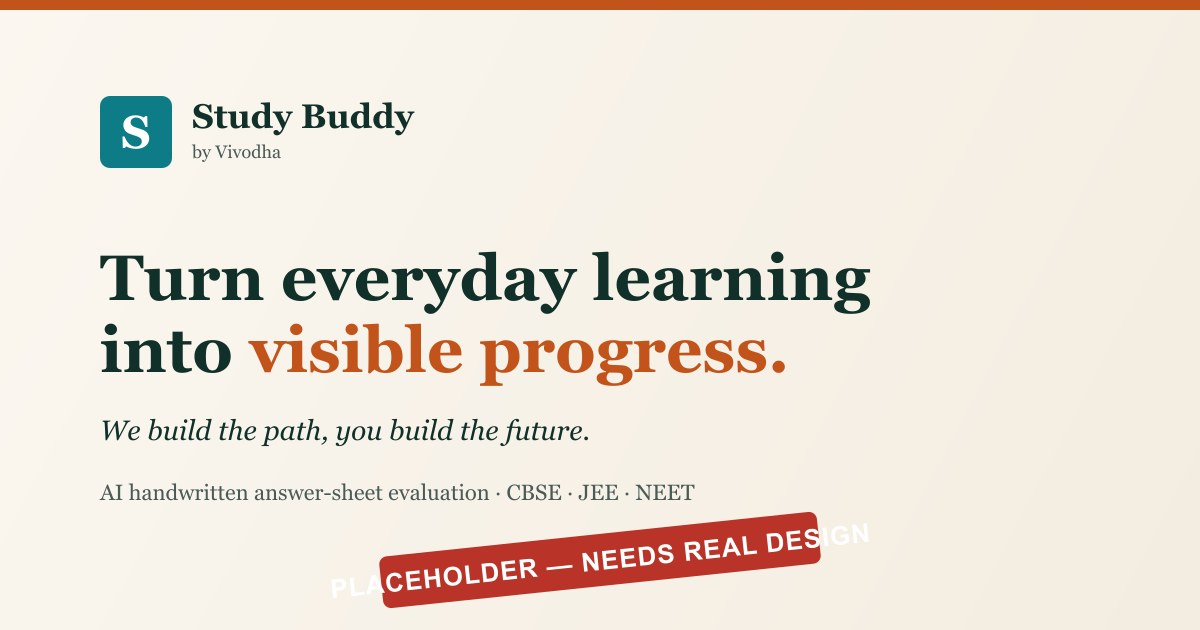
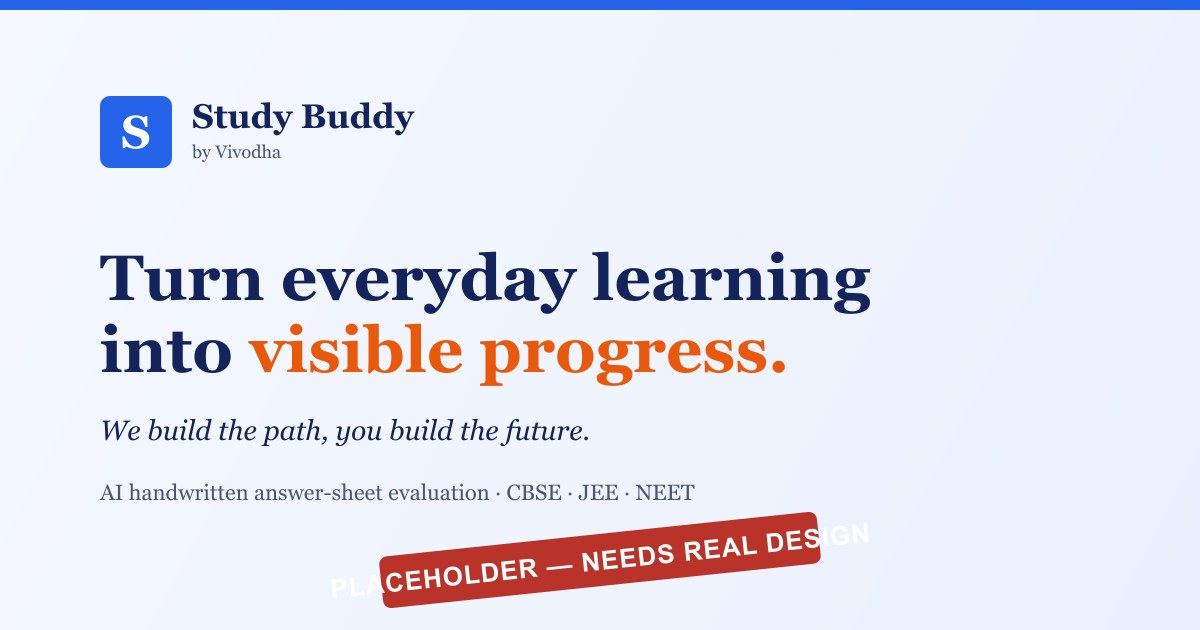
Recolour landing page to match the Study Buddy app (colour only)
Light blue-white page, navy ink and dark bands like the app sidebar,
royal-blue buttons and logo mark like the app's Sign In, orange/amber
highlights like "Score Higher", indigo as the support colour. Done by
remapping the design tokens in global.css plus a new --primary token
for buttons; no content, layout, animation or font changes (page heights
identical before/after at 390 and 1440). Favicon set and placeholder OG
image regenerated in the new palette. All text pairs pass WCAG AA;
Lighthouse unchanged at 95/100/100/100. DESIGN.md §3 updated.

diff --git a/src/styles/global.css b/src/styles/global.css
@@ -47,34 +47,40 @@
   --color-transparent: transparent;
   --color-current: currentColor;
 
-  --color-paper: #fbf7f0;
-  --color-paper-2: #f3ece0;
+  /* Study Buddy app palette (studybuddy.vivodha.com): blue-white page, navy ink and bands,
+     royal-blue buttons, orange/amber energy accent, indigo secondary. */
+  --color-paper: #f5f8ff;
+  --color-paper-2: #eaf0fd;
   --color-surface: #ffffff;
 
-  --color-ink: #12302a;
-  --color-ink-2: #4a5a55;
-  --color-ink-on-dark: #c9d6d1;
+  --color-ink: #13235b;
+  --color-ink-2: #4a5677;
+  --color-ink-on-dark: #c8d3f5;
 
-  --color-accent: #c2541b;
-  --color-accent-hover: #a84716;
-  --color-accent-ink: #9e4314;
-  --color-accent-on-dark: #f08a4b;
-  --color-accent-tint: #fbe6d6;
+  --color-primary: #2563eb;
+  --color-primary-hover: #1d4ed8;
 
-  --color-teal: #0e7c86;
-  --color-teal-ink: #0b6670;
-  --color-teal-tint: #e0f0ef;
+  --color-accent: #ea580c;
+  --color-accent-hover: #c2410c;
+  --color-accent-ink: #c2410c;
+  --color-accent-on-dark: #fbbf24;
+  --color-accent-tint: #ffedd5;
 
-  --color-ochre: #d9a21b;
+  /* Token names kept from the original theme so components don't change; "teal" now holds the indigo secondary. */
+  --color-teal: #4f46e5;
+  --color-teal-ink: #4338ca;
+  --color-teal-tint: #e0e7ff;
 
-  --color-line: #e4dccd;
-  --color-line-strong: #8c8273;
+  --color-ochre: #f59e0b;
+
+  --color-line: #dce3f3;
+  --color-line-strong: #7c88a6;
 
   --color-error: #b42318;
   --color-success: #1f7a4d;
   --color-warning: #8a5a00;
 
-  --color-focus: #0b6670;
+  --color-focus: #2563eb;
 
   --font-display: 'Fraunces', Georgia, 'Times New Roman', serif;
   --font-body: 'Source Sans 3', 'Segoe UI', Roboto, 'Noto Sans', sans-serif;
@@ -106,8 +112,8 @@
   --radius-lg: 20px;
   --radius-full: 999px;
 
-  --shadow-1: 0 1px 2px rgb(18 48 42 / 0.06), 0 1px 1px rgb(18 48 42 / 0.04);
-  --shadow-2: 0 12px 32px -12px rgb(18 48 42 / 0.18), 0 2px 6px rgb(18 48 42 / 0.06);
+  --shadow-1: 0 1px 2px rgb(19 35 91 / 0.06), 0 1px 1px rgb(19 35 91 / 0.04);
+  --shadow-2: 0 12px 32px -12px rgb(19 35 91 / 0.2), 0 2px 6px rgb(19 35 91 / 0.06);
 
   --ease-out: cubic-bezier(0.2, 0.7, 0.2, 1);
   --dur-fast: 150ms;

diff --git a/DESIGN.md b/DESIGN.md
@@ -50,38 +50,42 @@ These are the visual habits of the current app and posters 1–2. **They must no
 
 ## 3. Colour tokens
 
-A warm paper base with deep-green ink, one burnt-orange accent, and teal taken from the Vivodha logo as a quiet support colour.
+Matched to the Study Buddy app (studybuddy.vivodha.com): a light blue-white page, deep navy ink and dark bands like the app sidebar, royal-blue buttons like the app's Sign In, an orange/amber energy accent like "Score Higher" on the login page, and indigo as the quiet support colour. Token names were kept from the first theme so components didn't change (`teal` now holds indigo).
 
 ```css
 :root {
   /* Surfaces */
-  --paper:        #FBF7F0;  /* page background, warm off-white */
-  --paper-2:      #F3ECE0;  /* alternate section band */
+  --paper:        #F5F8FF;  /* page background, light blue-white */
+  --paper-2:      #EAF0FD;  /* alternate section band */
   --surface:      #FFFFFF;  /* cards, inputs, dashboard frame */
 
   /* Ink */
-  --ink:          #12302A;  /* headings, body, dark CTA band */
-  --ink-2:        #4A5A55;  /* secondary / muted text */
-  --ink-on-dark:  #C9D6D1;  /* body text on --ink bands */
+  --ink:          #13235B;  /* headings, body, navy dark bands */
+  --ink-2:        #4A5677;  /* secondary / muted text */
+  --ink-on-dark:  #C8D3F5;  /* body text on --ink bands */
 
-  /* Accent: burnt orange (decisions only) */
-  --accent:       #C2541B;  /* primary button fill, large highlight words, underline stroke */
-  --accent-hover: #A84716;  /* button hover/active */
-  --accent-ink:   #9E4314;  /* small orange text on paper (eyebrows, links) */
-  --accent-on-dark:#F08A4B; /* orange text/eyebrows on --ink bands */
-  --accent-tint:  #FBE6D6;  /* audience badge background, highlights */
+  /* Primary: royal blue (actions) */
+  --primary:       #2563EB; /* button fill, logo mark, focus ring */
+  --primary-hover: #1D4ED8; /* button hover */
 
-  /* Support: teal from logo (data and reassurance) */
-  --teal:         #0E7C86;  /* chart bars, icons, check marks */
-  --teal-ink:     #0B6670;  /* teal text */
-  --teal-tint:    #E0F0EF;  /* soft info backgrounds */
+  /* Accent: orange / amber (energy and emphasis, not buttons) */
+  --accent:       #EA580C;  /* large highlight words, underline stroke, eyebrow rules, markers */
+  --accent-hover: #C2410C;
+  --accent-ink:   #C2410C;  /* small orange text on paper (eyebrows, links), numbered markers */
+  --accent-on-dark:#FBBF24; /* amber eyebrows/script on --ink bands */
+  --accent-tint:  #FFEDD5;  /* audience badge background, highlights */
+
+  /* Support: indigo (data and reassurance). Token still named "teal". */
+  --teal:         #4F46E5;  /* chart bars, icons, check marks */
+  --teal-ink:     #4338CA;  /* indigo text/labels */
+  --teal-tint:    #E0E7FF;  /* soft info backgrounds */
 
   /* Chart-only third hue (dashboard mockup) */
-  --ochre:        #D9A21B;
+  --ochre:        #F59E0B;
 
   /* Lines */
-  --line:         #E4DCCD;  /* hairline dividers & card borders (decorative) */
-  --line-strong:  #8C8273;  /* input borders (meets 3:1 non-text) */
+  --line:         #DCE3F3;  /* hairline dividers & card borders (decorative) */
+  --line-strong:  #7C88A6;  /* input borders (meets 3:1 non-text) */
 
   /* Feedback (forms only) */
   --error:        #B42318;
@@ -89,39 +93,38 @@ A warm paper base with deep-green ink, one burnt-orange accent, and teal taken f
   --warning:      #8A5A00;
 
   /* Focus */
-  --focus:        #0B6670;  /* 2px ring + 2px offset in --paper */
+  --focus:        #2563EB;  /* 2px ring + 2px offset in --paper */
 }
 ```
 
-*Why green ink rather than black or navy:* it is softer than black, distinct from the navy used by every edtech competitor, and matches poster 3's footer band.
-*Why only one accent:* if orange only ever means "act here", the eye finds the CTA without effort.
-*Why teal is support only:* it ties the page back to the logo without competing with orange for attention.
+*Why blue and navy:* principals who sign up land in the Study Buddy app, so the page should already feel like the product they'll use. One brand, one first impression.
+*Why blue buttons and orange highlights:* blue says "act here" consistently with the app, and orange gives the headline and markers energy without competing with the buttons.
+*Why indigo is support only:* it carries data (bars, checks, icons) and stays quieter than both blue and orange.
 
 ### Contrast ratios (WCAG 2.1, computed)
 
 | Foreground | Background | Ratio | Use | AA |
 |---|---|---|---|---|
-| `--ink` #12302A | `--paper` #FBF7F0 | **13.27** | Body, headings | ✅ AAA |
-| `--ink` #12302A | `--surface` #FFFFFF | **14.17** | Card text | ✅ AAA |
-| `--ink-2` #4A5A55 | `--paper` | **6.82** | Muted text | ✅ |
-| `--ink-2` #4A5A55 | `--paper-2` #F3ECE0 | **6.20** | Muted text on bands | ✅ |
-| #FFFFFF | `--accent` #C2541B | **4.59** | Primary button label | ✅ |
-| #FFFFFF | `--accent-hover` #A84716 | **5.87** | Button hover | ✅ |
-| `--accent-ink` #9E4314 | `--paper` | **6.02** | Eyebrows, links | ✅ |
-| `--accent-ink` #9E4314 | `--paper-2` | **5.47** | Eyebrows on bands | ✅ |
-| `--accent` #C2541B | `--paper` | **4.30** | **Large display text only** (≥24px, or ≥18.66px bold) | ✅ large / ❌ small |
-| `--teal` #0E7C86 | `--paper` | **4.63** | Icons, teal text | ✅ |
-| `--teal-ink` #0B6670 | `--paper` | **6.25** | Teal links/labels | ✅ |
-| `--teal-ink` #0B6670 | `--teal-tint` #E0F0EF | **5.68** | Info notes | ✅ |
-| #FFFFFF | `--ink` #12302A | **14.17** | Headline on dark band | ✅ AAA |
-| `--ink-on-dark` #C9D6D1 | `--ink` | **9.46** | Body on dark band | ✅ AAA |
-| `--accent-on-dark` #F08A4B | `--ink` | **5.70** | Eyebrow on dark band | ✅ |
-| `--ink` | `--accent-tint` #FBE6D6 | **11.74** | Audience badge | ✅ AAA |
-| `--line-strong` #8C8273 | `--surface` | **3.78** | Input borders (non-text, needs 3:1) | ✅ |
+| `--ink` #13235B | `--paper` #F5F8FF | **13.92** | Body, headings | ✅ AAA |
+| `--ink` #13235B | `--surface` #FFFFFF | **14.80** | Card text | ✅ AAA |
+| `--ink-2` #4A5677 | `--paper` | **6.84** | Muted text | ✅ |
+| `--ink-2` #4A5677 | `--paper-2` #EAF0FD | **6.36** | Muted text on bands | ✅ |
+| #FFFFFF | `--primary` #2563EB | **5.17** | Button label | ✅ |
+| #FFFFFF | `--primary-hover` #1D4ED8 | **6.70** | Button hover | ✅ |
+| `--accent-ink` #C2410C | `--paper` | **4.87** | Eyebrows, links | ✅ |
+| `--accent-ink` #C2410C | `--paper-2` | **4.53** | Eyebrows on bands | ✅ |
+| `--accent` #EA580C | `--paper` | **3.35** | **Large display text only** (≥24px, or ≥18.66px bold) | ✅ large / ❌ small |
+| `--teal` #4F46E5 | `--paper` | **5.91** | Icons, indigo text | ✅ |
+| `--teal-ink` #4338CA | `--teal-tint` #E0E7FF | **6.41** | Info notes | ✅ |
+| #FFFFFF | `--ink` #13235B | **14.80** | Headline on navy band | ✅ AAA |
+| `--ink-on-dark` #C8D3F5 | `--ink` | **9.93** | Body on navy band | ✅ AAA |
+| `--accent-on-dark` #FBBF24 | `--ink` | **8.86** | Eyebrow/script on navy band | ✅ AAA |
+| `--ink` | `--accent-tint` #FFEDD5 | **12.91** | Audience badge | ✅ AAA |
+| `--line-strong` #7C88A6 | `--surface` | **3.54** | Input borders (non-text, needs 3:1) | ✅ |
 | `--error` #B42318 | `--surface` | **6.57** | Error message | ✅ |
 | `--success` #1F7A4D | `--surface` | **5.32** | Success message | ✅ |
 
-**Rule:** `--accent` is never used for text under 24px. Use `--accent-ink` instead. `--line` (1.28:1) is decorative only and never the sole boundary of an interactive control.
+**Rule:** `--accent` is never used for text under 24px. Use `--accent-ink` instead. White labels on small orange fills (Class 11 node, numbered markers) use `--accent-ink`. `--line` is decorative only and never the sole boundary of an interactive control.
 
 ---
 
@@ -227,13 +230,13 @@ Each component lists its anatomy, states, mobile behaviour, and the thing not to
 
 | Variant | Style | Use |
 |---|---|---|
-| **Primary** | `--accent` fill, white Source Sans 3 600 16px, `--r-sm`, padding 14×22, trailing arrow icon (Lucide `arrow-right`, 18px) | One per viewport: "Book a free institute demo" |
+| **Primary** | `--primary` fill, white Source Sans 3 600 16px, `--r-sm`, padding 14×22, trailing arrow icon (Lucide `arrow-right`, 18px) | One per viewport: "Book a free institute demo" |
 | **Secondary** | Transparent, 1.5px `--ink` border, `--ink` text | "Explore the platform" |
 | **Text link** | `--accent-ink`, underline offset 3px, thickness 1px → 2px on hover | Inline links |
 | **On dark** | Primary unchanged; secondary uses a white border and white text | CTA band |
 
 - **Height:** 48px minimum on mobile and 44px on desktop. Full-width on mobile when stacked.
-- **States:** hover → `--accent-hover`, and the arrow shifts right by 3px (150ms). Active → translateY(1px). Focus-visible → 2px `--focus` ring with 2px offset. Disabled → 40% opacity and `cursor: not-allowed`, never only grey.
+- **States:** hover → `--primary-hover`, and the arrow shifts right by 3px (150ms). Active → translateY(1px). Focus-visible → 2px `--focus` ring with 2px offset. Disabled → 40% opacity and `cursor: not-allowed`, never only grey.
 - **Loading:** label stays, with an inline 16px spinner; width is locked to prevent layout shift.
 - **Don't:** use gradients, glows, more than one primary per screen, or all-caps labels.
 
